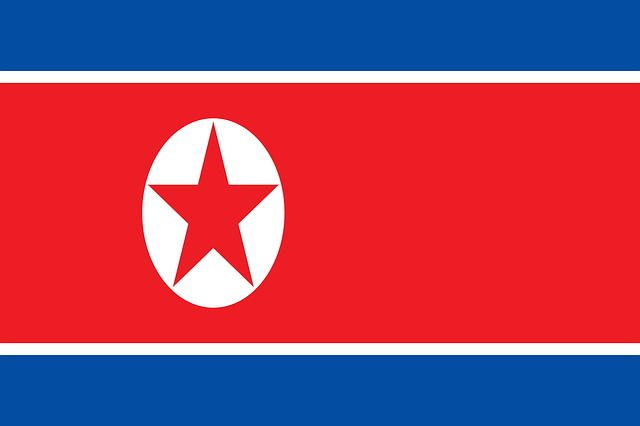
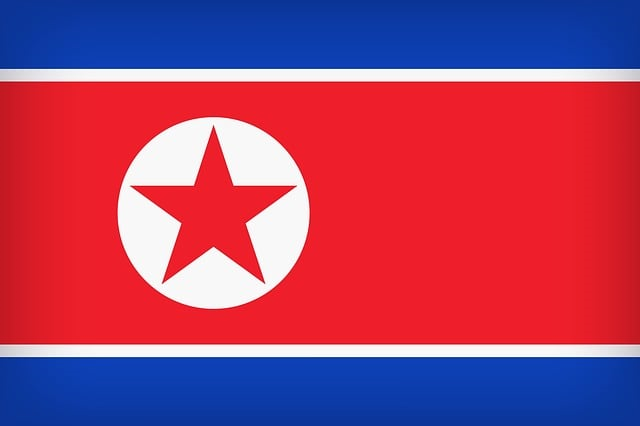
Update image used on game over page

diff --git a/assets/js/script.js b/assets/js/script.js
@@ -271,8 +271,9 @@ function gameOver(){
   let gameBox = document.getElementById('game-box');
   gameBox.innerHTML = `
     <div id="game-over" class= "game-title"> 
-        <h1>Game<br>Over</h1><br><br>
-        <h3>Well Done ${username}!<br>You Scored ${score}</h3>
+        <br><h1>Game<br>Over</h1><br><br>
+        <img class="star-image" id = "flag" src="assets/images/shootingstar/.png" alt="red shooting star">
+        <br><h3>Well Done<br>${username}!<br>You Scored ${score}</h3>
     </div>
     <div class = "score-board-container">
         <table id = "s-table" class = "scores-table" aria-label = "leaderboard of top 5 scorers">
@@ -305,7 +306,7 @@ function gameOver(){
     </div>
 
     <div class = "play-control">
-        <button class = "play-button" onclick = "renderGamePage()">Play Again</button>
+        <button class = "play-button" onclick = "renderGamePage()">Play Again</button><br><br>
     </div>`;
 
     

diff --git a/assets/css/style.css b/assets/css/style.css
@@ -57,6 +57,7 @@ h4 {
 
 .game-title h3 {
     text-align: center;
+    line-height: 1.25;
 }
 
 /* Set width of username Input box. */
@@ -203,14 +204,17 @@ h4 {
 
 }
 
-#game-over {
-    background-image: url(/assets/images/awesome.png);
+.star-image {
+    width: 320px;
+    height: 160px;
 }
 
 .score-board-container {
     display: flex;
     flex-direction: column;
     align-items: center;
+    height: 180px;
+    width:280px;
     margin: 10px;
     padding: 10px;
 }
